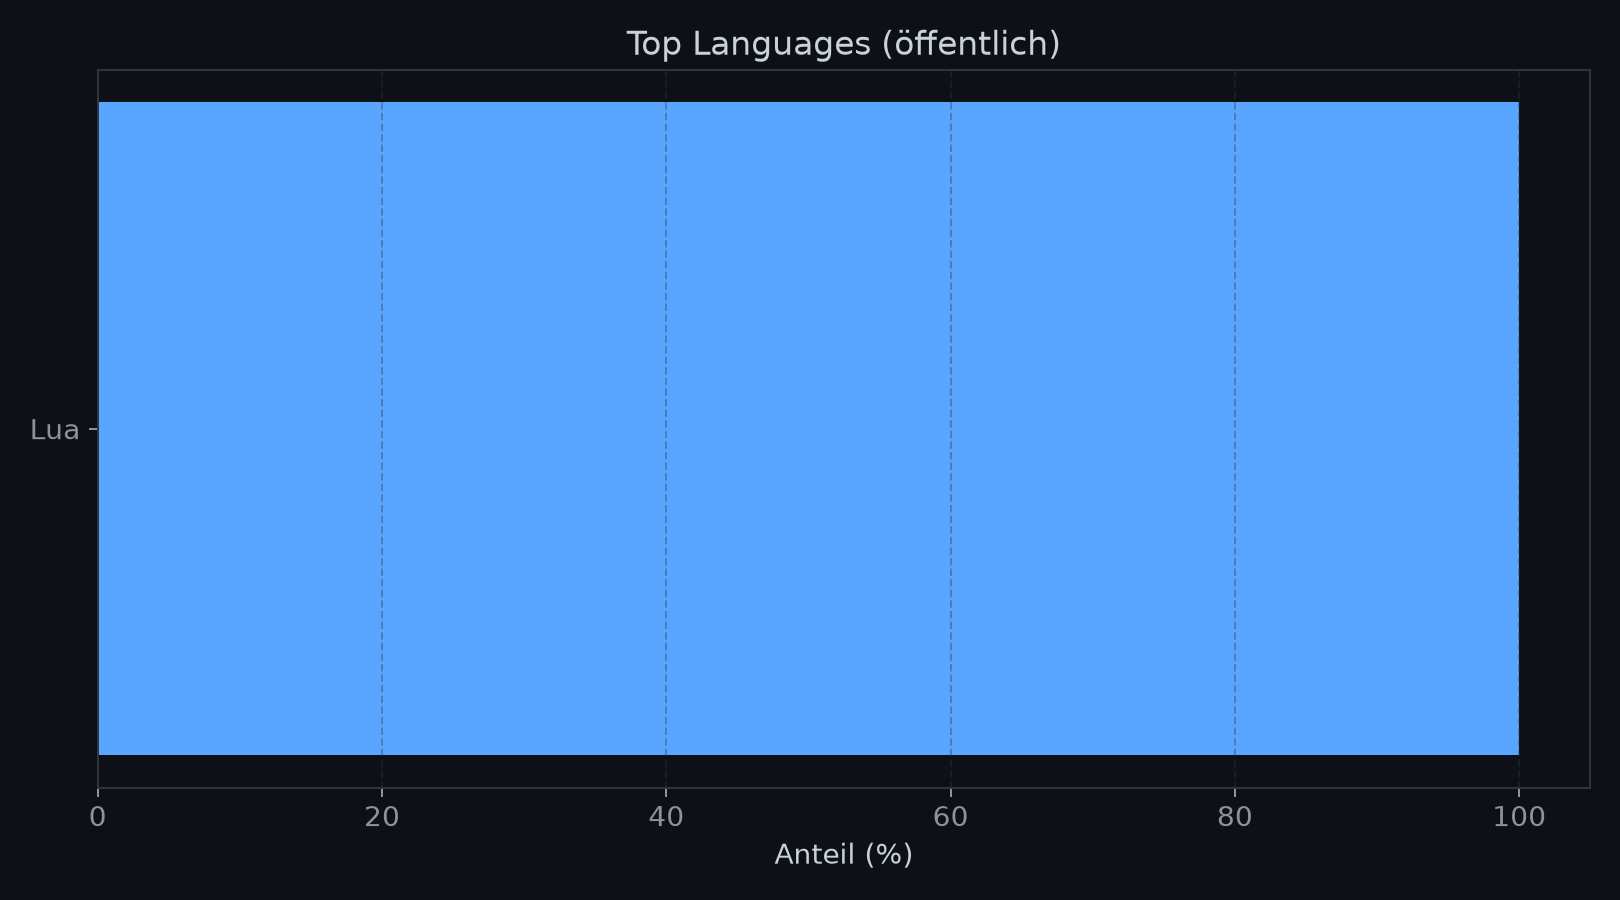
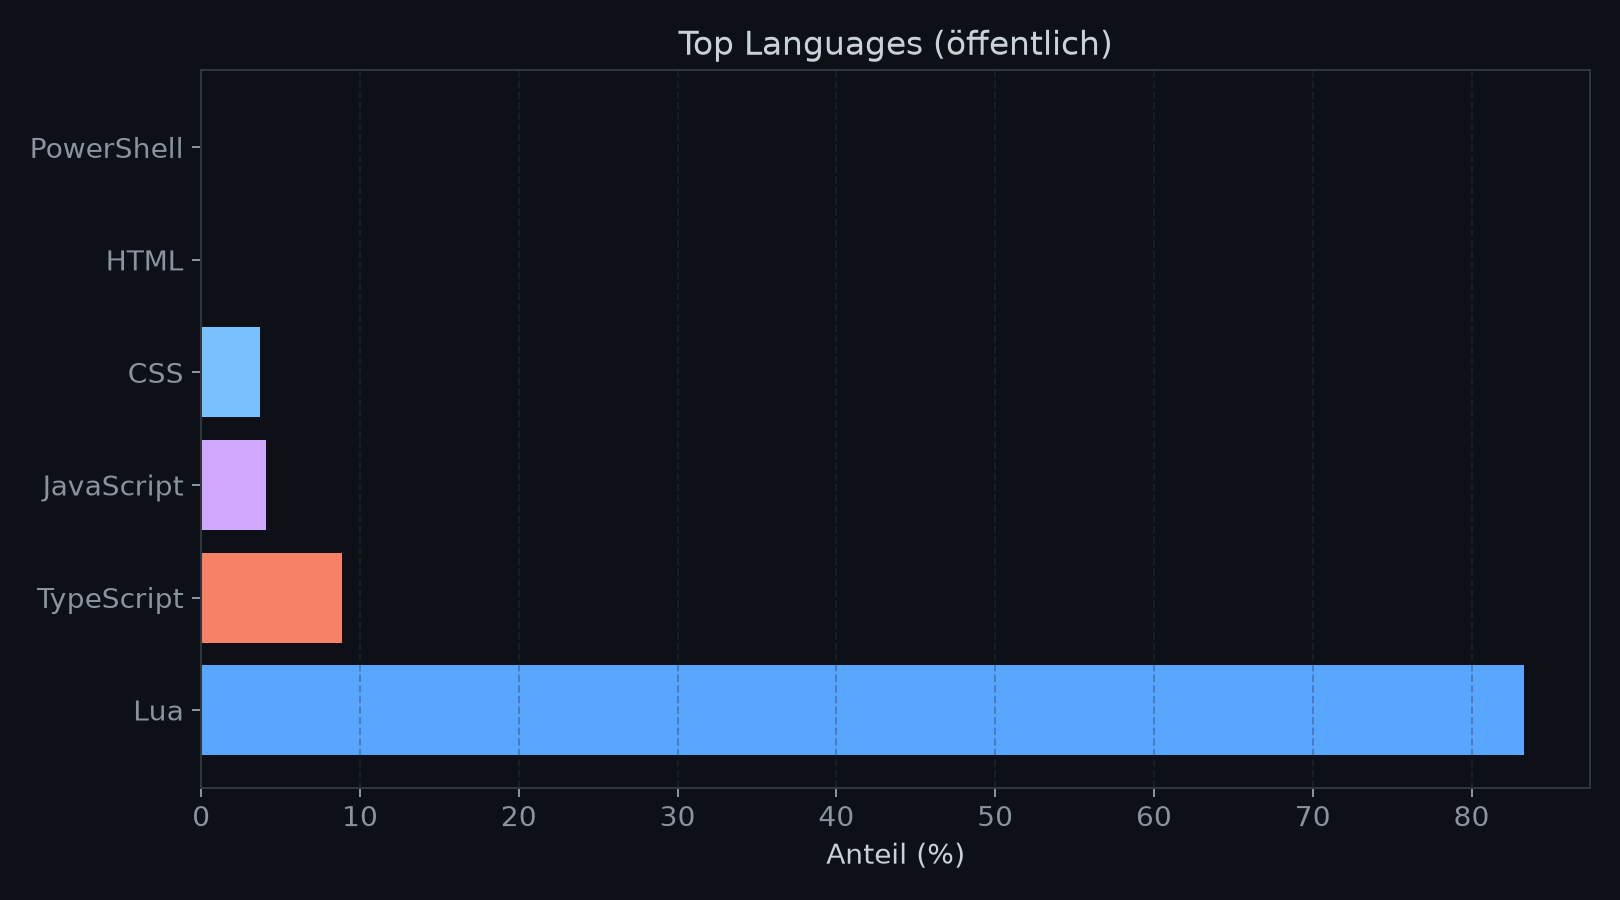
chore(profile): refresh visuals & projects

diff --git a/README.md b/README.md
@@ -125,7 +125,7 @@
 <p align="center">
 <!-- start: metrics-summary -->
 
-<sub>Repos: <b>2</b> · Stars (gesamt): <b>0</b> · Top Language: <b>Lua</b> (100.0%)</sub>
+<sub>Repos: <b>5</b> · Stars (gesamt): <b>0</b> · Top Language: <b>Lua</b> (83.3%)</sub>
 
 <!-- end: metrics-summary -->
 </p>
@@ -156,7 +156,9 @@
 
 <div align="center">
 <table>
-<tr><td align="left" valign="top" width="50%" style="padding: 8px;"><a href="https://github.com/PixelGG/DXForge"><b>DXForge</b></a><br/><sub>DXForge is a DX9 Lua UI library focused on building customizable in-game overlay interfaces with draggable windows, tab…</sub><br/><sub>⭐ 0 · Lua · updated 2026-07-02</sub></td><td align="left" valign="top" width="50%" style="padding: 8px;"><a href="https://github.com/PixelGG/LuaScripts"><b>LuaScripts</b></a><br/><sub><i>Keine Beschreibung</i></sub><br/><sub>⭐ 0 · Lua · updated 2026-06-09</sub></td></tr>
+<tr><td align="left" valign="top" width="50%" style="padding: 8px;"><a href="https://github.com/PixelGG/Arvox_Inventory"><b>Arvox_Inventory</b></a><br/><sub><i>Keine Beschreibung</i></sub><br/><sub>⭐ 0 · Lua · updated 2026-07-26</sub></td><td align="left" valign="top" width="50%" style="padding: 8px;"><a href="https://github.com/PixelGG/Arvox_Phone"><b>Arvox_Phone</b></a><br/><sub><i>Keine Beschreibung</i></sub><br/><sub>⭐ 0 · Lua · updated 2026-07-25</sub></td></tr>
+<tr><td align="left" valign="top" width="50%" style="padding: 8px;"><a href="https://github.com/PixelGG/Arvox_Core"><b>Arvox_Core</b></a><br/><sub><i>Keine Beschreibung</i></sub><br/><sub>⭐ 0 · Lua · updated 2026-07-25</sub></td><td align="left" valign="top" width="50%" style="padding: 8px;"><a href="https://github.com/PixelGG/DXForge"><b>DXForge</b></a><br/><sub>DXForge is a DX9 Lua UI library focused on building customizable in-game overlay interfaces with draggable windows, tab…</sub><br/><sub>⭐ 0 · Lua · updated 2026-07-02</sub></td></tr>
+<tr><td align="left" valign="top" width="50%" style="padding: 8px;"><a href="https://github.com/PixelGG/LuaScripts"><b>LuaScripts</b></a><br/><sub><i>Keine Beschreibung</i></sub><br/><sub>⭐ 0 · Lua · updated 2026-06-09</sub></td><td width="50%" style="padding: 8px;"></td></tr>
 </table>
 </div>
 
@@ -173,7 +175,9 @@
 
 <div align="center">
 <table>
-<tr><td align="left" valign="top" width="50%" style="padding: 8px;"><a href="https://github.com/PixelGG/DXForge"><b>DXForge</b></a><br/><sub>DXForge is a DX9 Lua UI library focused on building customizable in-game overlay interfaces with draggable windows, tab…</sub><br/><sub>⭐ 0 · Lua · updated 2026-07-02</sub></td><td align="left" valign="top" width="50%" style="padding: 8px;"><a href="https://github.com/PixelGG/LuaScripts"><b>LuaScripts</b></a><br/><sub><i>Keine Beschreibung</i></sub><br/><sub>⭐ 0 · Lua · updated 2026-06-09</sub></td></tr>
+<tr><td align="left" valign="top" width="50%" style="padding: 8px;"><a href="https://github.com/PixelGG/Arvox_Inventory"><b>Arvox_Inventory</b></a><br/><sub><i>Keine Beschreibung</i></sub><br/><sub>⭐ 0 · Lua · updated 2026-07-26</sub></td><td align="left" valign="top" width="50%" style="padding: 8px;"><a href="https://github.com/PixelGG/Arvox_Phone"><b>Arvox_Phone</b></a><br/><sub><i>Keine Beschreibung</i></sub><br/><sub>⭐ 0 · Lua · updated 2026-07-25</sub></td></tr>
+<tr><td align="left" valign="top" width="50%" style="padding: 8px;"><a href="https://github.com/PixelGG/Arvox_Core"><b>Arvox_Core</b></a><br/><sub><i>Keine Beschreibung</i></sub><br/><sub>⭐ 0 · Lua · updated 2026-07-25</sub></td><td align="left" valign="top" width="50%" style="padding: 8px;"><a href="https://github.com/PixelGG/DXForge"><b>DXForge</b></a><br/><sub>DXForge is a DX9 Lua UI library focused on building customizable in-game overlay interfaces with draggable windows, tab…</sub><br/><sub>⭐ 0 · Lua · updated 2026-07-02</sub></td></tr>
+<tr><td align="left" valign="top" width="50%" style="padding: 8px;"><a href="https://github.com/PixelGG/LuaScripts"><b>LuaScripts</b></a><br/><sub><i>Keine Beschreibung</i></sub><br/><sub>⭐ 0 · Lua · updated 2026-06-09</sub></td><td width="50%" style="padding: 8px;"></td></tr>
 </table>
 </div>
 
